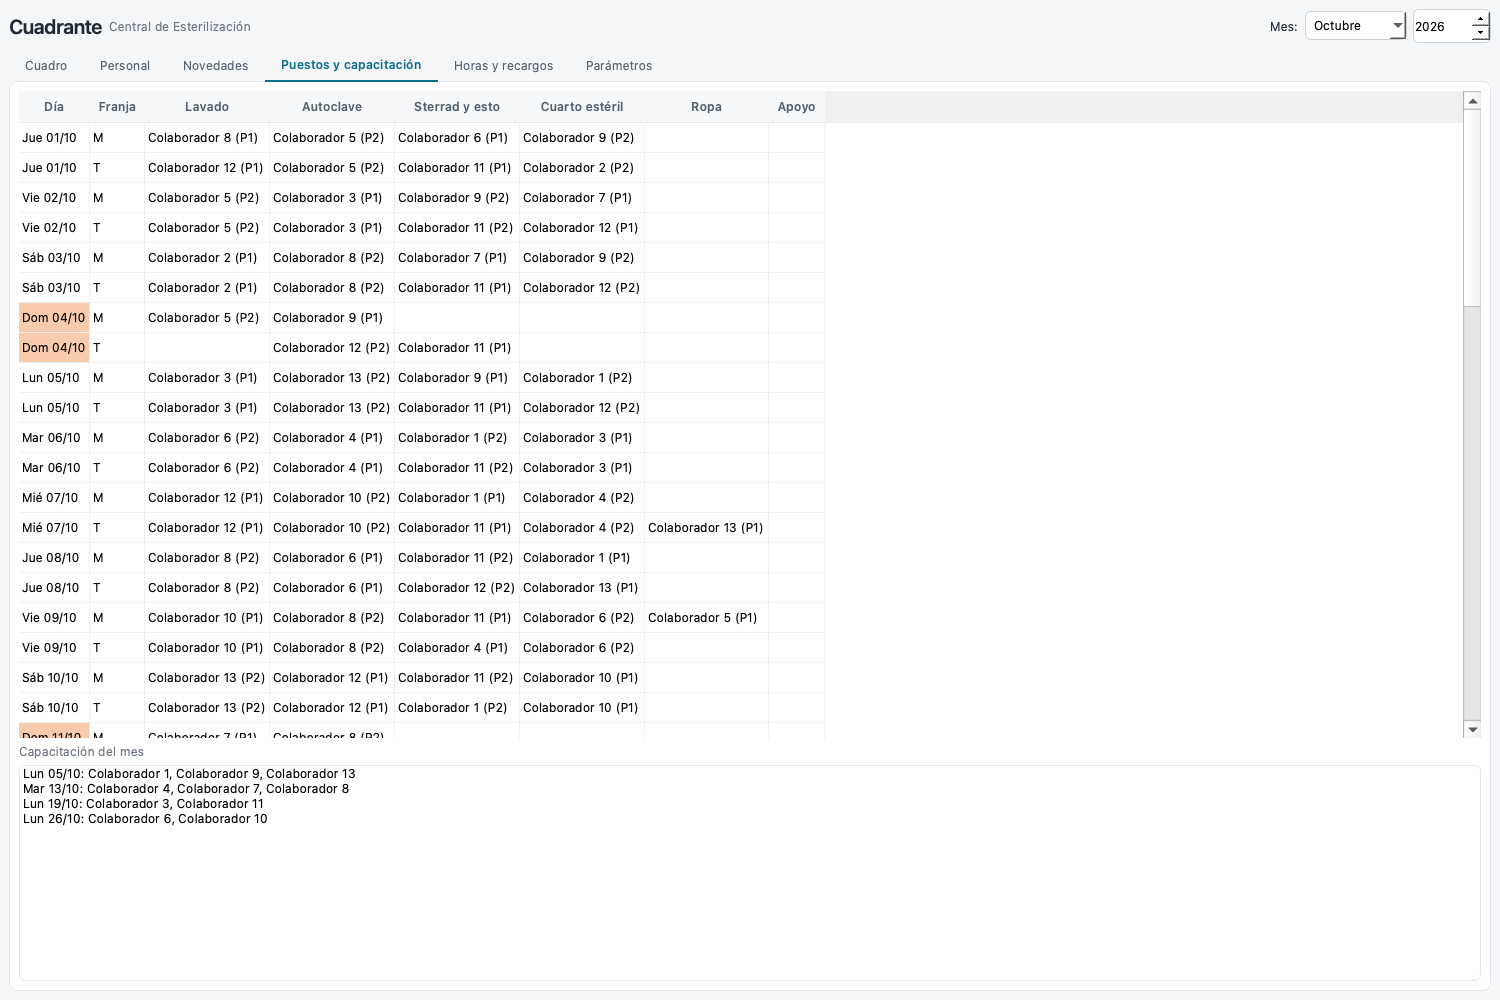
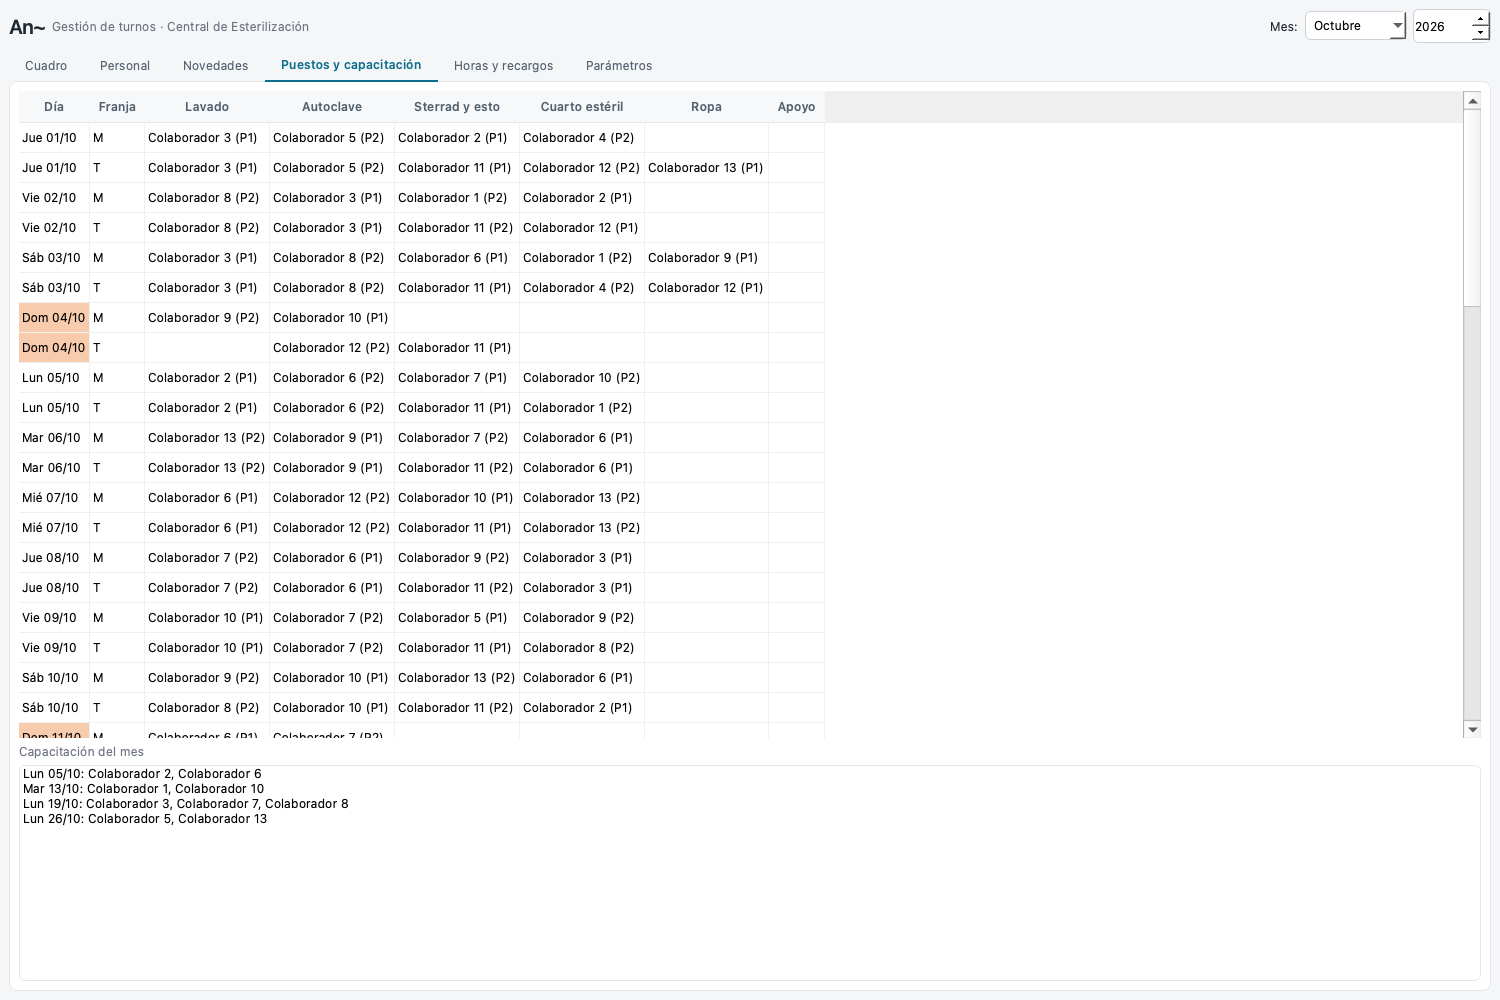
Rename project to An~ and describe it as general shift management
Rename the app, launcher and package to An~ (ASCII slug "an" for files).
Reposition the README around shift management with room to grow to more
services and linked administrative processes, and add docs/VISION.md.

diff --git a/app.py b/app.py
@@ -1,4 +1,4 @@
-"""Cuadrante: personal, novedades, cuadro mensual, puestos, horas y recargos."""
+"""An~: personal, novedades, cuadro mensual, puestos, horas y recargos."""
 import os
 import subprocess
 import sys
@@ -114,9 +114,9 @@ class Trabajo(QThread):
 class Ventana(QMainWindow):
     def __init__(self, ruta_bd=BD_RUTA):
         super().__init__()
-        self.setWindowTitle("Cuadrante · Esterilización")
+        self.setWindowTitle("An~ · Esterilización")
         self.resize(1360, 860)
-        self.cfg = QSettings("Cuadrante", "Cuadrante")
+        self.cfg = QSettings("An", "An")
         self.bd = db.BD(str(ruta_bd))
         self.trabajo = None
         hoy = date.today()
@@ -124,8 +124,8 @@ class Ventana(QMainWindow):
         self.setCentralWidget(raiz)
         v = QVBoxLayout(raiz)
         cab = QHBoxLayout()
-        cab.addWidget(QLabel("Cuadrante", objectName="titulo"))
-        cab.addWidget(QLabel("Central de Esterilización", objectName="muted"))
+        cab.addWidget(QLabel("An~", objectName="titulo"))
+        cab.addWidget(QLabel("Gestión de turnos · Central de Esterilización", objectName="muted"))
         cab.addStretch()
         self.mes = QComboBox()
         self.mes.addItems(MESES)

diff --git a/README.md b/README.md
@@ -1,9 +1,9 @@
 <div align="center">
 
-# Cuadrante
+# An~
 
-**Programación de turnos para la Central de Esterilización**<br>
-Genera el cuadro mensual, asigna los puestos del día y calcula horas y recargos según el Código Sustantivo del Trabajo.
+**Gestión de turnos y de los procesos que giran alrededor**<br>
+Hoy programa la Central de Esterilización: genera el cuadro mensual, asigna puestos y calcula horas y recargos según el Código Sustantivo del Trabajo. Está pensada para crecer a más servicios y a procesos administrativos vinculados.
 
 ![Python](https://img.shields.io/badge/Python-3.13-3776AB?logo=python&logoColor=white)
 ![Qt](https://img.shields.io/badge/Interfaz-PySide6%20(Qt)-41CD52?logo=qt&logoColor=white)
@@ -11,11 +11,11 @@ Genera el cuadro mensual, asigna los puestos del día y calcula horas y recargos
 ![SQLite](https://img.shields.io/badge/Datos-SQLite-003B57?logo=sqlite&logoColor=white)
 ![Windows](https://img.shields.io/badge/Windows-portátil%2C%20sin%20instalar-0078D6?logo=windows&logoColor=white)
 
-[Guía de uso](docs/GUIA_USUARIO.md) · [Reglas y marco legal](docs/REGLAS.md) · [Arquitectura](docs/ARQUITECTURA.md) · [Hoja de ruta](docs/HOJA_DE_RUTA.md)
+[Guía de uso](docs/GUIA_USUARIO.md) · [Visión](docs/VISION.md) · [Reglas y marco legal](docs/REGLAS.md) · [Arquitectura](docs/ARQUITECTURA.md) · [Hoja de ruta](docs/HOJA_DE_RUTA.md)
 
 <br>
 
-<img src="docs/img/cuadro.png" alt="Cuadro mensual generado por Cuadrante" width="900">
+<img src="docs/img/cuadro.png" alt="Cuadro mensual generado por An~" width="900">
 
 <sub>Cuadro de octubre de 2026 con datos de ejemplo: cobertura completa, descansos de 12 h y novedades (VAC, INC) respetadas.</sub>
 
@@ -25,9 +25,19 @@ Genera el cuadro mensual, asigna los puestos del día y calcula horas y recargos
 
 ## Por qué existe
 
-Hoy el cuadro de turnos se arma a mano en Excel: ciclos que rotan, 12 colaboradores con distintas restricciones, estudiantes con horarios fijos, vacaciones, incapacidades… y después hay que contar horas y recargos. **Cuadrante** hace ese trabajo en segundos, deja que la coordinadora ajuste lo que quiera y explica cada alerta.
+En muchos servicios de un hospital el cuadro de turnos se arma a mano en Excel: ciclos que rotan, personas con restricciones, estudiantes con horarios fijos, vacaciones, incapacidades… y después hay que contar horas y recargos. **An~** hace ese trabajo en segundos, deja que la coordinadora ajuste lo que quiera y explica cada alerta.
 
 Está pensada para una persona no técnica en un **PC corporativo sin permisos de administrador**: se entrega como una carpeta que se descomprime y se abre con doble clic.
+
+## Hacia dónde va
+
+La v1 resuelve un servicio, la **Central de Esterilización**, y lo hace con reglas y turnos como *datos* editables, no como código. Esa es la base para convertirla en una herramienta general de gestión de turnos:
+
+- **Más servicios** con la misma estructura, cada uno con sus turnos, cobertura y puestos.
+- **Procesos administrativos vinculados**: novedades, solicitudes y permutas, capacitaciones, y el cierre de horas y recargos para nómina.
+- **Más personas usándola**, con aprobaciones y trazabilidad.
+
+El plan, los principios y las preguntas abiertas están en [docs/VISION.md](docs/VISION.md). Hoy el alcance es solo Esterilización.
 
 ## Qué hace
 
@@ -78,23 +88,23 @@ El solver cumple las reglas duras y optimiza el resto (horas de la ventana, rota
 **Desarrollo (Mac o Linux)**
 
 ```bash
-git clone https://github.com/jssdv/cuadrante.git
-cd cuadrante
+git clone https://github.com/jssdv/an-turnos.git
+cd an-turnos
 python3 -m venv .venv
 .venv/bin/pip install PySide6-Essentials openpyxl ortools
 .venv/bin/python app.py
 ```
 
-En Mac también sirve el doble clic en `Cuadrante.command`: prepara el entorno la primera vez y abre la app. Los datos quedan en `turnos.db`, junto a `app.py`.
+En Mac también sirve el doble clic en `An.command`: prepara el entorno la primera vez y abre la app. Los datos quedan en `turnos.db`, junto a `app.py`.
 
 **Paquete para Windows** (se arma desde el Mac)
 
 ```bash
 ./empaquetar.sh prueba   # dist/PruebaPC.zip: comprueba Qt y OR-Tools en el PC corporativo
-./empaquetar.sh          # dist/Cuadrante.zip: la app completa (≈ 150 MB comprimida)
+./empaquetar.sh          # dist/An.zip: la app completa (≈ 150 MB comprimida)
 ```
 
-En el PC destino basta descomprimir y abrir `Cuadrante.bat`. No se instala nada.
+En el PC destino basta descomprimir y abrir `An.bat`. No se instala nada.
 
 **Pruebas**
 
@@ -107,6 +117,7 @@ En el PC destino basta descomprimir y abrir `Cuadrante.bat`. No se instala nada.
 | Documento | Para quién | Contenido |
 |---|---|---|
 | [Guía de uso](docs/GUIA_USUARIO.md) | Coordinación | El mes paso a paso: personal, novedades, generar, ajustar, exportar |
+| [Visión](docs/VISION.md) | Todos | Hacia dónde crece An~: más servicios y procesos vinculados |
 | [Reglas y marco legal](docs/REGLAS.md) | Coordinación, RR. HH., jurídico | Reglas del servicio, normativa aplicada y puntos por confirmar |
 | [Arquitectura](docs/ARQUITECTURA.md) | Desarrollo | Módulos, datos, modelo del solver, empaquetado |
 | [Hoja de ruta](docs/HOJA_DE_RUTA.md) | Todos | Qué falta validar y hacia dónde crece |

diff --git a/docs/VISION.md b/docs/VISION.md
@@ -1,0 +1,84 @@
+# Visión
+
+[← Volver al inicio](../README.md) · [Hoja de ruta](HOJA_DE_RUTA.md) · [Arquitectura](ARQUITECTURA.md) · [Reglas](REGLAS.md)
+
+**An~** nace para programar los turnos de la Central de Esterilización. La intención es que sea la base de una herramienta general de **gestión de turnos**, a la que se puedan sumar otros servicios y los procesos administrativos que dependen de ellos.
+
+> Estado: la v1 cubre **solo Esterilización**. Este documento describe la dirección; no promete nada que ya exista. Lo construido está en la [arquitectura](ARQUITECTURA.md) y lo pendiente en la [hoja de ruta](HOJA_DE_RUTA.md).
+
+## Qué problema resuelve
+
+Programar turnos bien exige cumplir cobertura, descansos, restricciones personales y normativa laboral a la vez, y después contar horas y recargos. Hecho a mano consume días y deja errores. La idea es que el sistema proponga, valide y explique, y que la persona decida.
+
+## Principios
+
+1. **La persona decide.** El solver propone; la coordinación ajusta, publica y deja constancia de los cambios.
+2. **Reglas como datos.** Turnos, cobertura, puestos y tarifas se editan desde la app. Agregar un servicio o cambiar una ley no debe exigir programar.
+3. **Núcleo sin interfaz.** El dominio, las reglas y el solver son Python puro; la interfaz solo los llama. Así la misma lógica puede servir desde otra interfaz o un servidor.
+4. **Portátil y sin permisos.** Debe funcionar en un PC corporativo sin administrador.
+5. **Excel como puente.** Entra y sale en Excel mientras los demás procesos sigan allí.
+6. **Datos personales protegidos.** Los datos del personal no salen del equipo ni del repositorio (Ley 1581 de 2012).
+7. **Etapas pequeñas que sirven solas.**
+
+## Piezas y cómo se vinculan
+
+```mermaid
+flowchart LR
+    subgraph Hoy[Construido · v1]
+        T[Turnos y<br/>cobertura]
+        P[Personal y<br/>novedades]
+        S[Solver]
+        H[Horas y<br/>recargos]
+        U[Puestos y<br/>capacitación]
+    end
+    subgraph Sig[Candidatos a vincular]
+        SV[Varios<br/>servicios]
+        SO[Solicitudes<br/>y permutas]
+        NO[Cierre para<br/>nómina]
+        CA[Capacitaciones<br/>y cursos]
+        PR[Permisos y<br/>aprobaciones]
+    end
+    P --> S
+    T --> S
+    S --> H
+    S --> U
+    SV -.-> T
+    SV -.-> P
+    SO -.-> S
+    H -.-> NO
+    U -.-> CA
+    PR -.-> P
+```
+
+Las líneas punteadas son ideas, no compromisos.
+
+## Qué cambiaría para crecer
+
+| Tema | Hoy | Para varios servicios |
+|---|---|---|
+| Servicio | Uno, implícito | Entidad `servicio` con sus turnos, cobertura, puestos y personal |
+| Puestos | Los 5 de Esterilización | Catálogo de puestos por servicio |
+| Reglas | Parámetros globales | Reglas por servicio sobre el mismo motor |
+| Personal | Una lista | Personas que pueden pertenecer a más de un servicio |
+| Usuarios | Una persona, un equipo | Varias personas y roles (coordina, aprueba, consulta) |
+| Datos | SQLite local | SQLite compartido o base de servidor, según el hospital |
+| Salidas | 3 Excel | Más formatos y un cierre de horas para nómina |
+
+## Procesos administrativos candidatos
+
+- **Solicitudes y permutas** entre colaboradores, con aprobación y registro de quién, cuándo y por qué.
+- **Novedades** con soporte (por ejemplo, incapacidades) y su efecto en horas contratadas.
+- **Cierre de nómina**: horas por categoría y recargos en el formato que pida Recursos Humanos.
+- **Capacitaciones** como proceso propio, con asistencia y vencimientos.
+- **Permisos, vacaciones y su aprobación**, con saldos.
+
+Cada uno se diseñará cuando se pida, con su documento en `docs/` antes de programarlo.
+
+## Preguntas abiertas
+
+1. ¿Qué otros servicios usarían la herramienta y qué tan distintas son sus reglas?
+2. ¿Quién aprobaría solicitudes y cambios, y con qué flujo?
+3. ¿Qué formato pide Recursos Humanos o nómina para recibir las horas?
+4. ¿Dónde se guardarían los datos si lo usa más de una persona: un equipo, una carpeta compartida o un servidor del hospital?
+5. ¿Existe un sistema de personal con el que habría que integrarse?
+6. Qué debe aprobar jurídico sobre jornada, turnos de 12 h y recargos ([puntos por confirmar](REGLAS.md)).

diff --git a/CLAUDE.md b/CLAUDE.md
@@ -1,13 +1,13 @@
 # CLAUDE.md
 
-**Cuadrante** — desktop app (Spanish UI) for the Central de Esterilización: staff + absences, monthly shift grid generated with OR-Tools CP-SAT, daily post assignment, training sessions, hours and Colombian surcharges (CST). Used by a non-technical coordinator on a locked-down Windows PC (no admin, no installs). Sister of `../ASIGSEMRADIO` (Radiología); the two apps share no code, only ideas.
+**An~** — desktop app (Spanish UI) for the Central de Esterilización: staff + absences, monthly shift grid generated with OR-Tools CP-SAT, daily post assignment, training sessions, hours and Colombian surcharges (CST). Used by a non-technical coordinator on a locked-down Windows PC (no admin, no installs). Long-term direction (general shift management, more services, linked admin processes): `docs/VISION.md`. Sister of `../ASIGSEMRADIO` (Radiología); the two apps share no code, only ideas.
 
 ## Commands
-- Dev env: `python3 -m venv .venv && .venv/bin/pip install PySide6-Essentials openpyxl ortools` (or double-click `Cuadrante.command`).
+- Dev env: `python3 -m venv .venv && .venv/bin/pip install PySide6-Essentials openpyxl ortools` (or double-click `An.command`).
 - Run GUI: `.venv/bin/python app.py` (data in `turnos.db` next to `app.py`).
 - Tests: `.venv/bin/python test_turnos.py` (prints `OK`, ~1 min: solves full months).
 - GUI smoke without display: `QT_QPA_PLATFORM=offscreen` + instantiate `app.Ventana(tmp_db_path)`.
-- Windows zip: `./empaquetar.sh` → `dist/Cuadrante.zip`; `./empaquetar.sh prueba` → `dist/PruebaPC.zip` (checks Qt + OR-Tools run on the target PC).
+- Windows zip: `./empaquetar.sh` → `dist/An.zip`; `./empaquetar.sh prueba` → `dist/PruebaPC.zip` (checks Qt + OR-Tools run on the target PC).
 
 ## Architecture
 Pure core, Qt only calls it.

diff --git a/docs/GUIA_USUARIO.md b/docs/GUIA_USUARIO.md
@@ -2,7 +2,7 @@
 
 [← Volver al inicio](../README.md) · [Reglas](REGLAS.md) · [Hoja de ruta](HOJA_DE_RUTA.md)
 
-Esta guía recorre un mes completo. Todo se hace dentro de Cuadrante; no hace falta tocar Excel hasta el final.
+Esta guía recorre un mes completo. Todo se hace dentro de An~; no hace falta tocar Excel hasta el final.
 
 ## Antes de empezar (una sola vez)
 
@@ -28,7 +28,7 @@ Pestaña **Cuadro** → elige el mes → **Generar… → Generar desde cero**. 
 
 ### 3. Ajustar
 
-Haz doble clic en una celda y escribe el código del turno (`M`, `T`, `C`, `NC`) o `L` para libre. Cuadrante:
+Haz doble clic en una celda y escribe el código del turno (`M`, `T`, `C`, `NC`) o `L` para libre. An~:
 
 - guarda el cambio como **fijo** (el solver ya no lo mueve),
 - lo marca en **amarillo** frente al original,
@@ -79,4 +79,4 @@ Si el archivo ya existe, guarda `v2`, `v3`… y no sobrescribe nada.
 
 **Cambié un horario de turno y salieron alertas.** Es lo esperado: el cuadro existente se revalida con los horarios nuevos. Regenera el mes o la semana.
 
-**¿Qué hago si algo falla?** El detalle queda en `errores.log`, junto a la app. Envíalo a quien mantiene Cuadrante.
+**¿Qué hago si algo falla?** El detalle queda en `errores.log`, junto a la app. Envíalo a quien mantiene An~.

diff --git a/docs/HOJA_DE_RUTA.md b/docs/HOJA_DE_RUTA.md
@@ -1,6 +1,8 @@
 # Hoja de ruta
 
-[← Volver al inicio](../README.md) · [Reglas](REGLAS.md) · [Arquitectura](ARQUITECTURA.md)
+La dirección general, los principios y las preguntas abiertas están en la [visión](VISION.md).
+
+[← Volver al inicio](../README.md) · [Visión](VISION.md) · [Reglas](REGLAS.md) · [Arquitectura](ARQUITECTURA.md)
 
 Estado a oct-2026. v1 está construida; falta validarla con la coordinación y en el PC corporativo.
 
